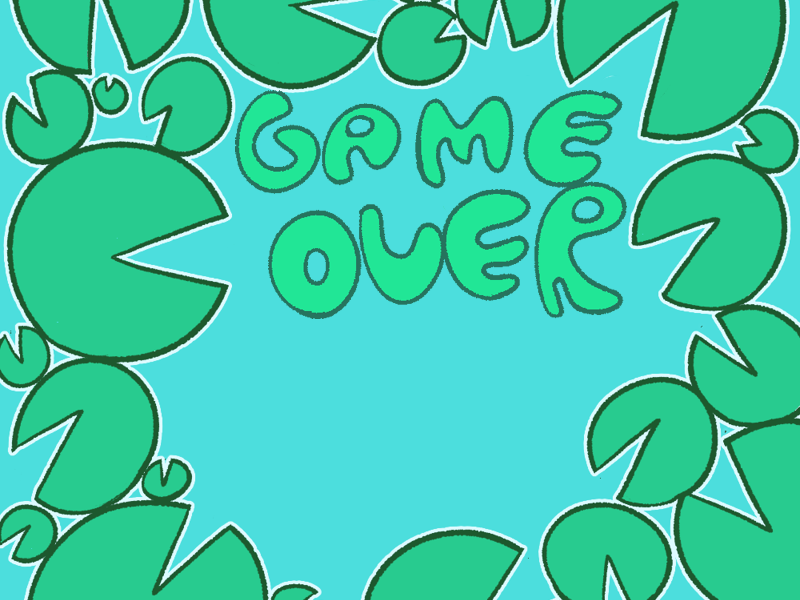
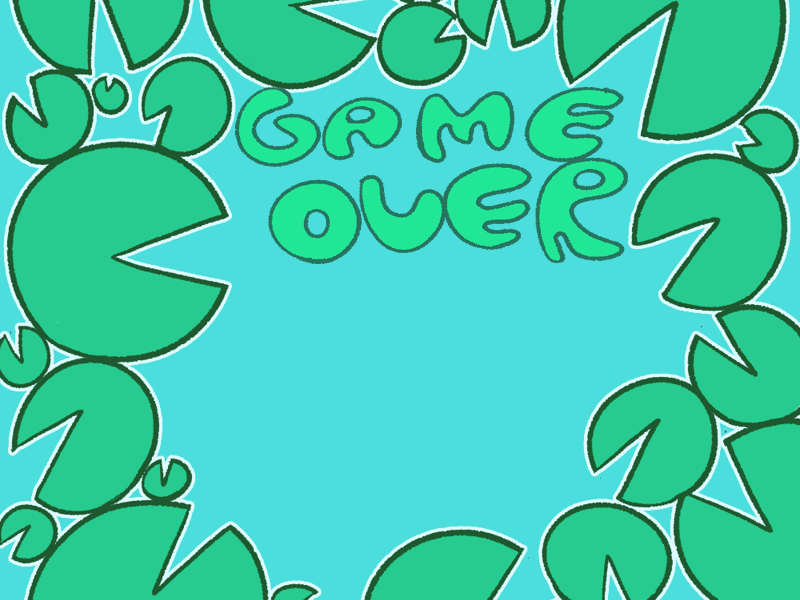
Ya puedo acceder al menú de gameOver
Me queda encontrar la forma de acceder a este menú cuando Flonk muera

Changed region(s): [[0.2812, 0.12, 0.7812, 0.54]]

diff --git a/ProyectoVisual/Frog/src/scenes/MenuGameOver.cpp b/ProyectoVisual/Frog/src/scenes/MenuGameOver.cpp
@@ -1,20 +1,13 @@
 #include "MenuGameOver.h"
 
 MenuGameOver::MenuGameOver(Game* g, GameState* gs, Texture* p1, Texture* p2) : Menu(g, gs, p1, p2) {
-	
-	SDL_Rect gameOverTextDest, button1Dest, button2Dest;
-
-	//Boton de Game Over
-	gameOverTextDest.w = GAMEOVERTEXT_W;
-	gameOverTextDest.h = GAMEOVERTEXT_H;
-	gameOverTextDest.x = GAMEOVERTEXT_X;
-	gameOverTextDest.y = GAMEOVERTEXT_Y;
+	SDL_Rect buttonRetryDest, buttonExitDest;
 
 	//Boton de retry y de salir
-	button1Dest.w = button2Dest.w = BUTTONRETRY_W;
-	button1Dest.h = button2Dest.h = BUTTONRETRY_H;
-	button1Dest.x = button2Dest.x = BUTTONRETRY_X;
-	button1Dest.y = BUTTONRETRY_Y; button2Dest.y = BUTTONEND_Y;
+	buttonRetryDest.w = buttonExitDest.w = BUTTONRETRY_W;
+	buttonRetryDest.h = buttonExitDest.h = BUTTONRETRY_H;
+	buttonRetryDest.x = buttonExitDest.x = BUTTONRETRY_X;
+	buttonRetryDest.y = BUTTONRETRY_Y; buttonExitDest.y = BUTTONEXIT_Y;
 
 	//Fondo
 	bgDest.x = bgDest.y = 0;
@@ -23,21 +16,18 @@ MenuGameOver::MenuGameOver(Game* g, GameState* gs, Texture* p1, Texture* p2) : M
 
 	selecDest.w = currSelec.width();
 	selecDest.h = currSelec.height();
-	selecDest.x = button1Dest.x - offset - selecDest.w / 2;
-	selecDest.y = button1Dest.y + button1Dest.h / 2 - currSelec.height() / 2;
+	selecDest.x = buttonRetryDest.x - offset - selecDest.w / 2;
+	selecDest.y = buttonRetryDest.y + buttonRetryDest.h / 2 - currSelec.height() / 2;
 
-	bg = &sdlutils().images().at("MenuInicio");
+	bg = &sdlutils().images().at("GameOver");
 
 	//Boton de retry
-	menuButton.push_back(new Button(p1, button1Dest));
+	menuButton.push_back(new Button(p1, buttonRetryDest));
 	menuButton[0]->connect([this]() { gameState->enter(); });
 	//Boton de exit
-	menuButton.push_back(new Button(p2, button2Dest));
+	menuButton.push_back(new Button(p2, buttonExitDest));
 	menuButton[1]->connect([this]() { gameState->leave(); });
 }
 
 MenuGameOver::~MenuGameOver() {
-
-
-
 }

diff --git a/ProyectoVisual/Frog/src/scenes/MenuGameOver.h b/ProyectoVisual/Frog/src/scenes/MenuGameOver.h
@@ -1,22 +1,19 @@
 # pragma once
 
-#include"Menu.h"
+#include "Menu.h"
 
 
 const int BUTTONRETRY_W = WIN_WIDTH * 2 / 5;
-const int BUTTONRETRY_X = WIN_WIDTH / 2 - BUTTONRETRY_W * 2 / 5;
-const int BUTTONRETRY_Y = WIN_HEIGHT * 4 / 9;
-const int BUTTONRETRY_H = WIN_HEIGHT * 2 / 12;
-
-const int BUTTONEND_X = WIN_WIDTH / 2 - BUTTONRETRY_W * 2 / 5;
-const int BUTTONEND_Y = WIN_HEIGHT * 5 / 8;
 const int BUTTONEND_W = WIN_WIDTH * 2 / 5;
-const int BUTTONEND_H = WIN_HEIGHT * 2 / 13;
 
-const int GAMEOVERTEXT_X = WIN_WIDTH / 2 - BUTTONRETRY_W * 2 / 5;
-const int GAMEOVERTEXT_Y = WIN_HEIGHT / 2;
-const int GAMEOVERTEXT_W = WIN_WIDTH * 2 / 5;
-const int GAMEOVERTEXT_H = WIN_HEIGHT * 2 / 13;
+const int BUTTONRETRY_H = WIN_HEIGHT * 2 / 12;
+const int BUTTONEXIT_H = WIN_HEIGHT * 2 / 13;
+
+const int BUTTONRETRY_X = WIN_WIDTH / 2 - BUTTONRETRY_W * 2 / 5;
+const int BUTTONEXIT_X = WIN_WIDTH / 2 - BUTTONRETRY_W * 2 / 5;
+
+const int BUTTONRETRY_Y = WIN_HEIGHT * 4 / 9;
+const int BUTTONEXIT_Y = WIN_HEIGHT * 5 / 8;
 
 class Texture;
 class InputManager;
@@ -24,8 +21,6 @@ class GameState;
 
 class MenuGameOver : public Menu
 {
-private:
-
 public:
 	MenuGameOver(Game* g, GameState* gs, Texture* p1, Texture* p2);
 	~MenuGameOver();

diff --git a/ProyectoVisual/Frog/src/game/GameOverState.cpp b/ProyectoVisual/Frog/src/game/GameOverState.cpp
@@ -1,30 +1,28 @@
 #include "GameOverState.h"
 #include "Game.h"
 #include "../scenes/Menu.h"
+#include "../scenes/MenuGameOver.h"
 
-GameOverState::GameOverState(Game* g): game(g), menu(new Menu(g, this, 
+GameOverState::GameOverState(Game* g): game(g), menu(new MenuGameOver(g, this, 
 				&sdlutils().images().at("BotonJuego"/*Reintentar*/), //
 				&sdlutils().images().at("BotonSalir"/*VolverMenuInicial*/))), //
 				currScene(*menu) //
 {}
 
-GameOverState::~GameOverState()
-{
+GameOverState::~GameOverState() {
 	delete menu;
 	game = nullptr;
 }
 
-void GameOverState::leave() //en este caso volveriamos a la pantalla de menu inicio
-{
+void GameOverState::leave() { //en este caso volveriamos a la pantalla de menu inicio
 	game->setNextState(game->NEWGAME);
 }
 
-void GameOverState::update()
-{
+void GameOverState::update() {
 	currScene.update();
 }
 
-void GameOverState::enter()
-{
-	game->setNextState(game->NEWGAME);
+void GameOverState::enter() { // -> Retry
+	game->setNextState(game->RUNNING);
+	//Habria que resetear al player de alguna forma
 }

diff --git a/ProyectoVisual/Frog/src/game/RunningState.cpp b/ProyectoVisual/Frog/src/game/RunningState.cpp
@@ -26,19 +26,20 @@ void RunningState::leave()
 void RunningState::update()
 {
 	currScene->update();
-	if (imngr.getEscape())
-	{
+	if (imngr.getEscape()) {
 		game->setNextState(game->PAUSED);
+	}
+
+	if (imngr.getDown()) {
+		game->setNextState(game->GAMEOVER);
 	}
 	//currScene->update();
 }
 
-void RunningState::enter()
-{
+void RunningState::enter() {
 }
 
-void RunningState::changeScene(int id)
-{/*
+void RunningState::changeScene(int id) {/*
 	if (allRooms[id] == nullptr)
 	{
 		currScene = allRooms[id];
@@ -47,6 +48,5 @@ void RunningState::changeScene(int id)
 	{
 		allRooms[id] = new RoomScene(id);
 	}*/
- //Tenemos de encontrar una forma de entrar en nuevas habitaciones aqu�
-
+	//Tenemos de encontrar una forma de entrar en nuevas habitaciones aqui
 }

diff --git a/ProyectoVisual/Frog/src/scenes/MenuInicio.cpp b/ProyectoVisual/Frog/src/scenes/MenuInicio.cpp
@@ -3,7 +3,7 @@
 #include "../sdlutils/Texture.h"
 #include "../managers/InputManager.h"
 #include "../game/GameState.h"
-MenuInicio::MenuInicio(Game* g, GameState* gs, Texture* path1, Texture* path2): Menu(g,gs,path1,path2)
+MenuInicio::MenuInicio(Game* g, GameState* gs, Texture* path1, Texture* path2) : Menu(g, gs, path1, path2)
 {
 	SDL_Rect button1Dest, button2Dest;
 
@@ -30,7 +30,5 @@ MenuInicio::MenuInicio(Game* g, GameState* gs, Texture* path1, Texture* path2): 
 	menuButton[1]->connect([this]() { gameState->leave(); });
 }
 
-MenuInicio::~MenuInicio()
-{
-
+MenuInicio::~MenuInicio() {
 }

diff --git a/ProyectoVisual/Frog/src/game/NewGameState.cpp b/ProyectoVisual/Frog/src/game/NewGameState.cpp
@@ -2,8 +2,10 @@
 #include "Game.h"
 #include "../scenes/MenuInicio.h"
 
-NewGameState::NewGameState(Game* g): game(g), menu(new MenuInicio(g, this, &sdlutils().images().at("BotonJuego"), 
-				&sdlutils().images().at("BotonSalir"))), currScene(*menu)
+NewGameState::NewGameState(Game* g): game(g), menu(new MenuInicio(g, this, 
+				&sdlutils().images().at("BotonJuego"), 
+				&sdlutils().images().at("BotonSalir"))),
+				currScene(*menu)
 {
 }
 

diff --git a/ProyectoVisual/Frog/src/scenes/MenuInicio.h b/ProyectoVisual/Frog/src/scenes/MenuInicio.h
@@ -5,7 +5,7 @@
 const int BUTTONSTART_W = WIN_WIDTH * 2 / 5;
 const int BUTTONEND_W = WIN_WIDTH * 2 / 5;
 const int BUTTONSTART_H = WIN_HEIGHT * 2 / 12;
-const int BUTTONEND_H = WIN_HEIGHT * 2 / 13;
+const int BUTTONEXIT_H = WIN_HEIGHT * 2 / 13;
 const int BUTTONSTART_X = WIN_WIDTH / 2 - BUTTONSTART_W * 2 / 5;
 const int BUTTONEND_X = WIN_WIDTH / 2 - BUTTONSTART_W * 2 / 5;
 const int BUTTONSTART_Y = WIN_HEIGHT * 4 / 9;

diff --git a/ProyectoVisual/Frog/src/game/RunningState.h b/ProyectoVisual/Frog/src/game/RunningState.h
@@ -26,5 +26,5 @@ private:
 	Scene* currScene; //puede haber escenas d menu d opciones,etc.
 	std::vector<Scene*> allRooms; //NO SE UTILIZA
 	InputManager& imngr;
-	//void se presiona el boton d pausa {llama al game change estate a ause y le pasa la currScene y el hud
+	//void se presiona el boton d pausa {llama al game change estate a pause y le pasa la currScene y el hud
 };
